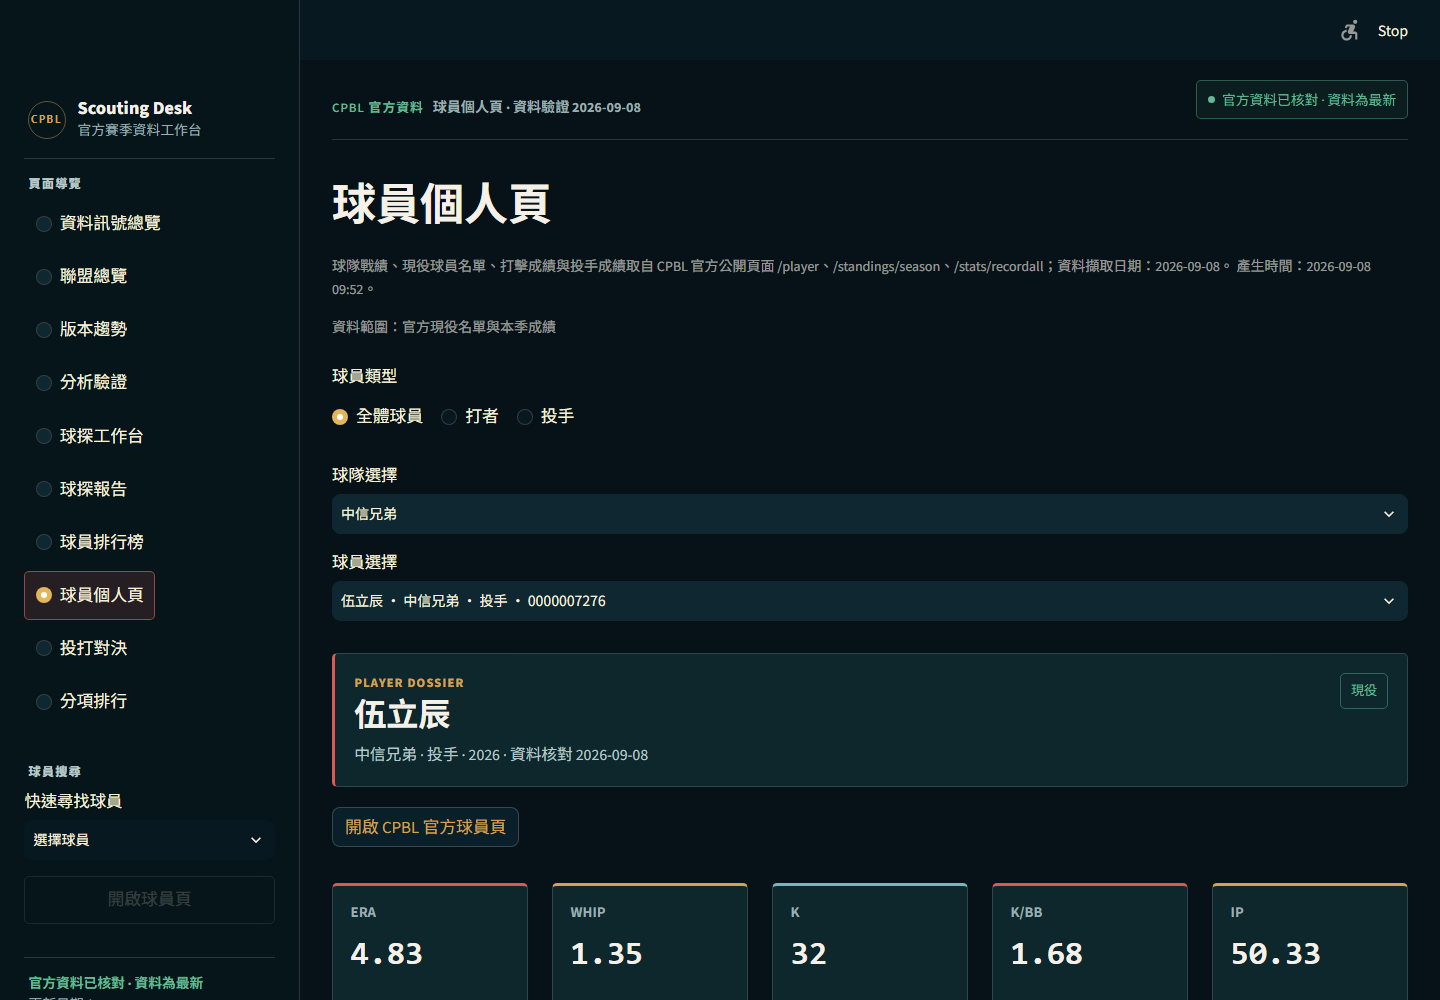
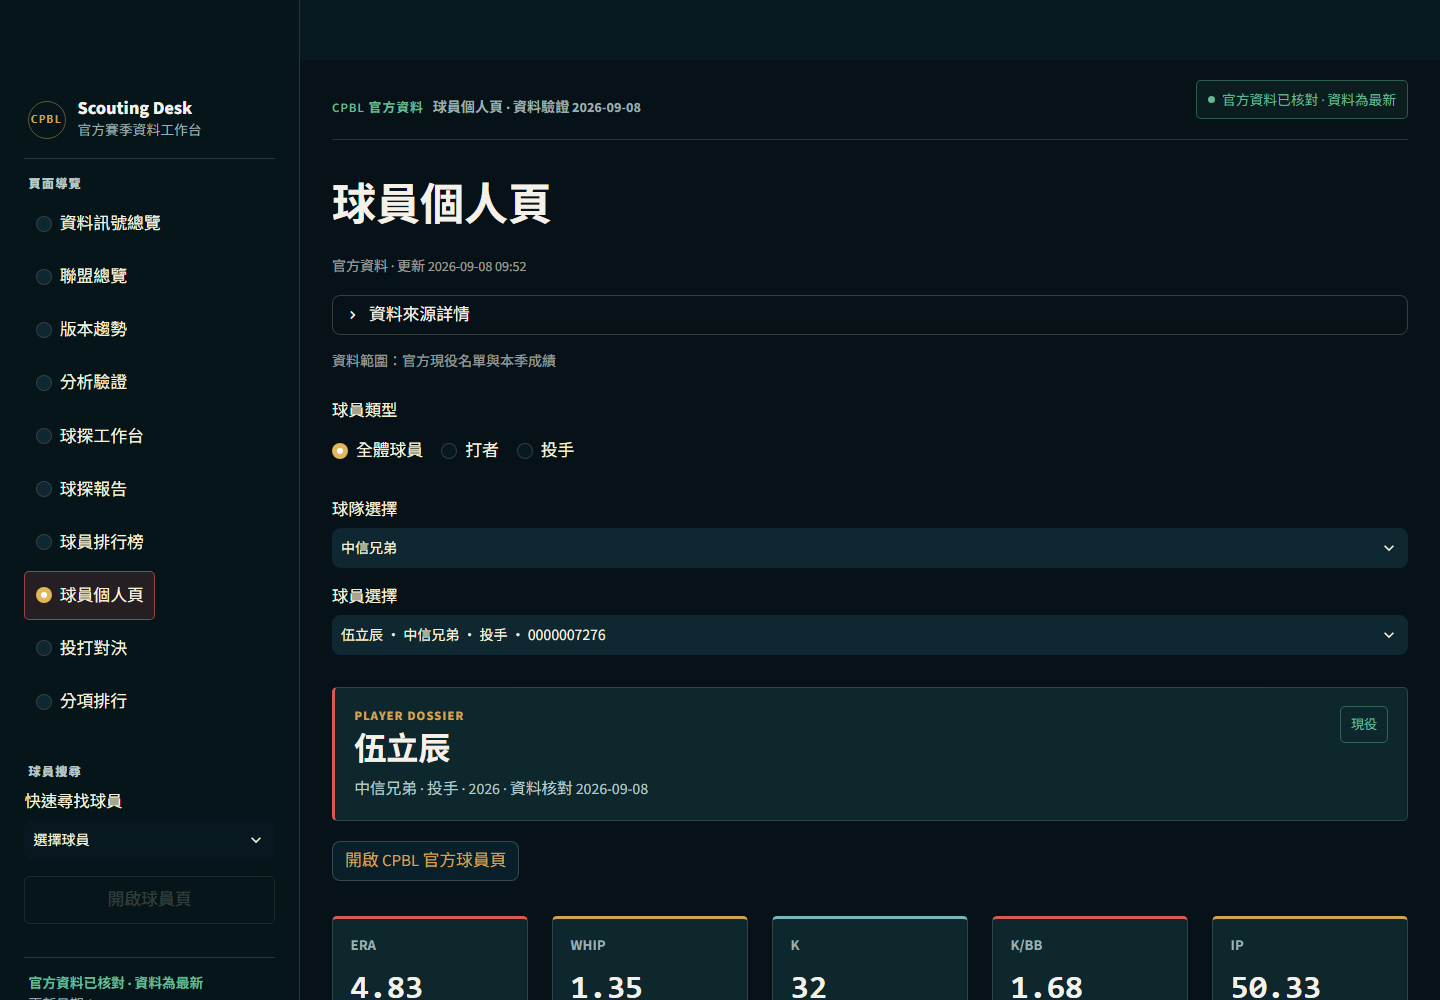
ui: collapse provenance details and tighten copy

diff --git a/app.py b/app.py
@@ -763,7 +763,9 @@ def source_status_panel(compact: bool = False) -> None:
     pitcher_count = report.get("available_pitcher_count", 0)
     quality_label = quality_status_label(report.get("quality_status"))
     if compact:
-        st.caption(f"{text} 產生時間：{generated_at}。")
+        st.caption(f"官方資料 · 更新 {generated_at}")
+        with st.expander("資料來源詳情", expanded=False):
+            st.caption(f"{text} 產生時間：{generated_at}。")
         return
     safe_text = escape(str(text))
     safe_verified_date = escape(str(verified_date))
@@ -837,8 +839,16 @@ def render_data_trust_surface(
         details.append("發布 ID：未驗證")
     if player_type is not None and threshold is not None and population_count is not None:
         details.append(f"符合門檻母體：{population_count} 人（{qualification_label(player_type)} ≥ {threshold:g}）")
-    trust_items = "".join(f"<span class='trust-item'>{escape(item)}</span>" for item in details)
+    visible_details = details[:4]
+    lineage_details = details[4:]
+    if player_type is not None and threshold is not None and population_count is not None and details:
+        visible_details.append(details[-1])
+        lineage_details = details[4:-1]
+    trust_items = "".join(f"<span class='trust-item'>{escape(item)}</span>" for item in visible_details)
     st.markdown(f"<div class='trust-strip' role='note'>{trust_items}</div>", unsafe_allow_html=True)
+    if lineage_details:
+        with st.expander("版本與發布資訊", expanded=False):
+            st.caption(" · ".join(lineage_details))
     warnings = [str(item) for item in report.get("warnings", []) if str(item)]
     if quality_status != "pass" and warnings:
         st.warning("資料品質警示：" + "；".join(warnings))
@@ -851,7 +861,7 @@ def render_data_trust_surface(
             st.warning("發布健康提醒：" + message)
     if not release_is_valid:
         st.warning("公開發布 Manifest 無法驗證或與目前資料快照不一致，請先重新執行 run_project.bat --check。")
-    st.caption("LOG5 為情境計算，非校準預測模型；不可視為未來表現、勝負或名單決策預測。")
+    st.caption("分析模型為情境計算，不代表未來表現。")
 
 
 def render_player_evidence(row: pd.Series, population: pd.DataFrame, player_type: str, threshold: float) -> None:
@@ -1132,12 +1142,13 @@ def render_player_movements(row: pd.Series, player_type: str) -> None:
 def page_home() -> None:
     page_intro("資料訊號總覽", "資料訊號總覽", "以 CPBL 官方資料建立本季觀察框架：先確認資料，再進入可重現的比較。")
     render_data_trust_surface(QUALITY_REPORT)
-    st.caption(
-        f"CPBL 官方公開頁面擷取 · /player · /standings/season · /stats/recordall · "
-        f"品質狀態：{quality_status_label(QUALITY_REPORT.get('quality_status'))} · "
-        f"更新：{data_generated_time()}"
-    )
-    st.caption("資料可回答：資格與評估分數；資料限制：不預測未來表現。")
+    with st.expander("資料與限制", expanded=False):
+        st.caption(
+            f"CPBL 官方公開頁面擷取 · /player · /standings/season · /stats/recordall · "
+            f"品質狀態：{quality_status_label(QUALITY_REPORT.get('quality_status'))} · "
+            f"更新：{data_generated_time()}"
+        )
+        st.caption("資料可回答：資格與評估分數；資料限制：不預測未來表現。")
     metric_cards(
         [
             ("球隊數", TEAMS["team"].nunique(), "官方戰績資料"),
